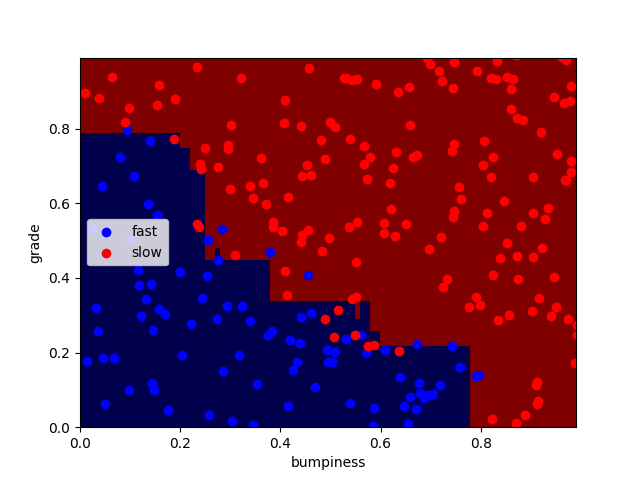
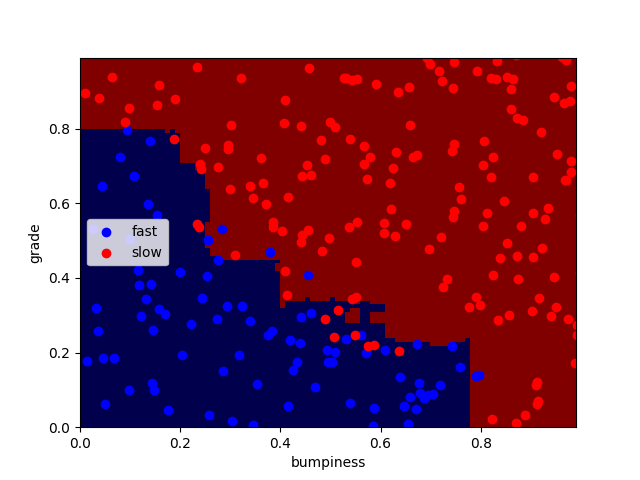
random forest solution

diff --git a/choose_your_own/your_algorithm.py b/choose_your_own/your_algorithm.py
@@ -51,13 +51,25 @@ plt.show()
 # with AdaBoost:
 # ============================
 
+# from sklearn import ensemble
+# clf = ensemble.AdaBoostClassifier()
+# clf.fit(features_train, labels_train)
+# pred = clf.predict(features_test)
+# print 'Prediction: ', pred
+# accu = clf.score(features_test, labels_test)
+# print 'Accuracy: ', accu
+
+# ============================
+# with Random Forest:
+# ============================
 from sklearn import ensemble
-clf = ensemble.AdaBoostClassifier()
+clf = ensemble.RandomForestClassifier(
+    random_state=157, criterion="entropy",  min_samples_leaf=2)
 clf.fit(features_train, labels_train)
 pred = clf.predict(features_test)
-print 'Prediction: ', pred
+print "Prediction: ", pred
 accu = clf.score(features_test, labels_test)
-print 'Accuracy: ', accu
+print "Accuracy: ", accu
 
 
 try:
